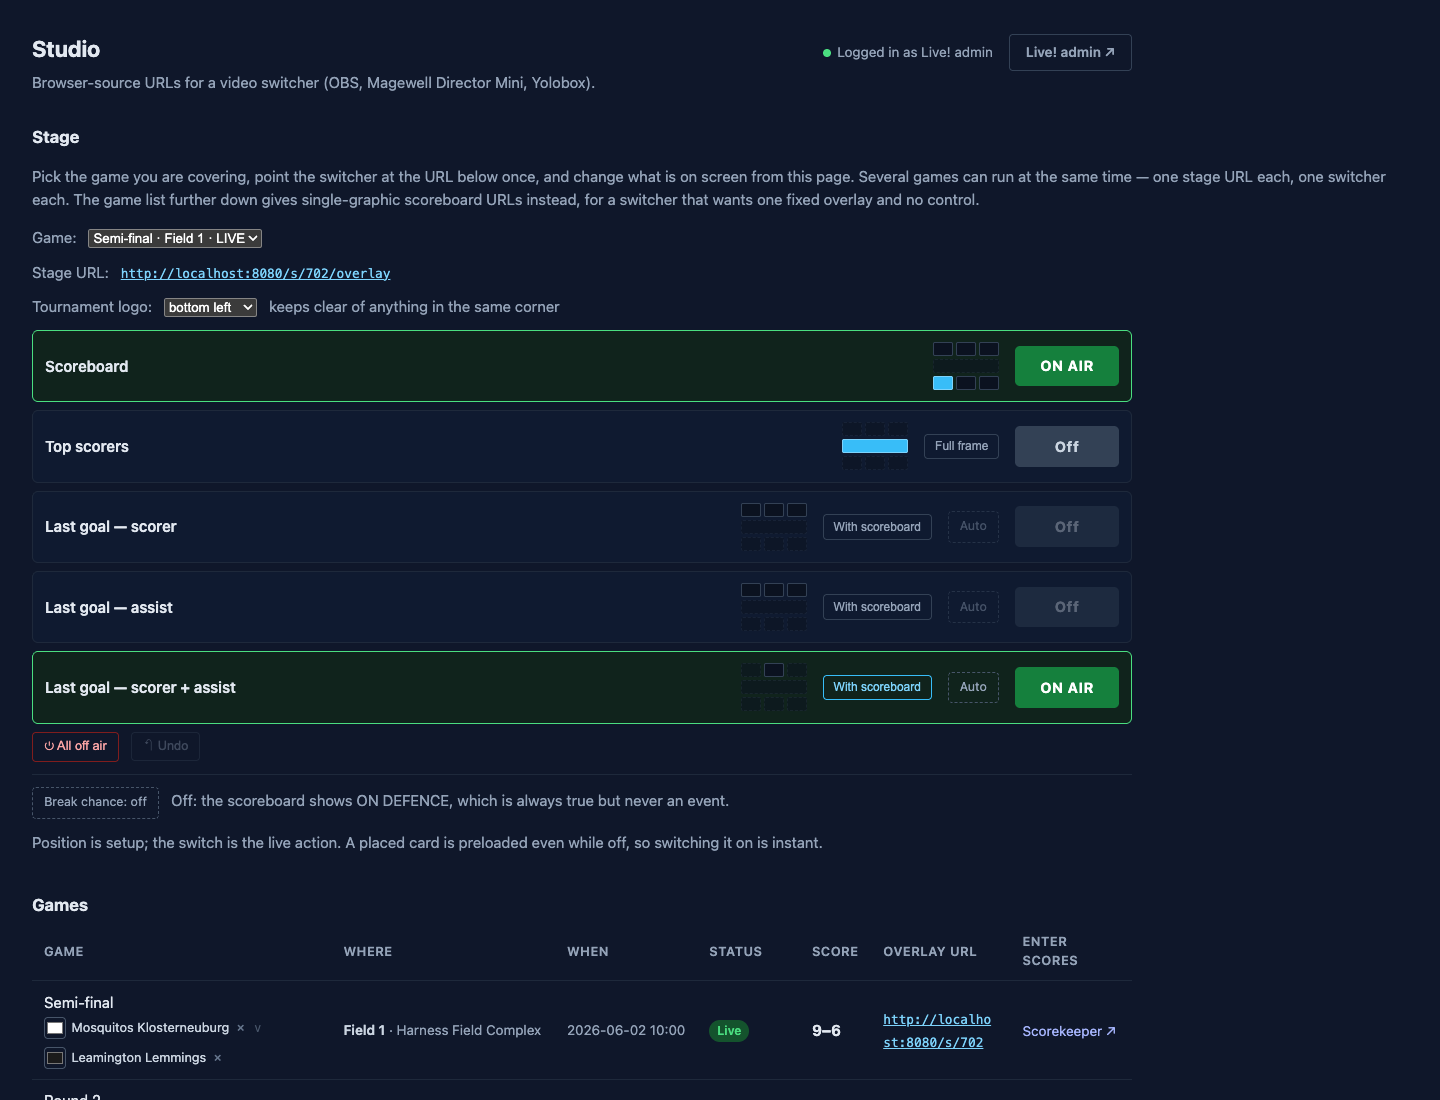
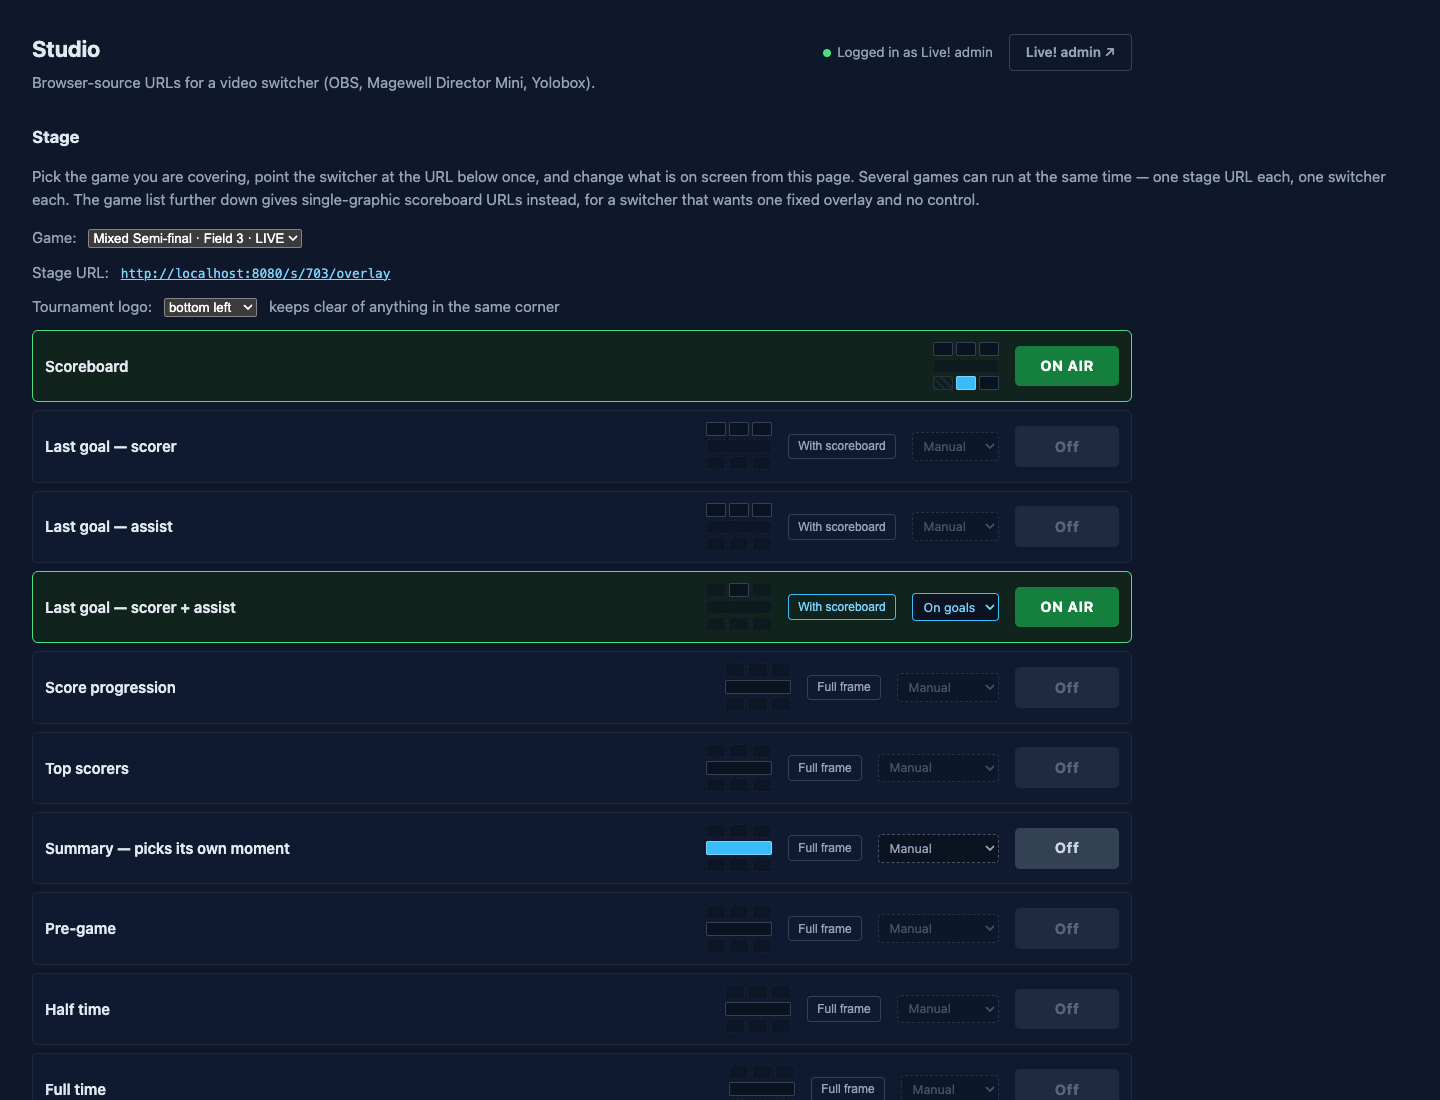
Add stage, progression and summary screenshots

diff --git a/tests/e2e/shots.spec.js b/tests/e2e/shots.spec.js
@@ -103,6 +103,79 @@ test('studio', async ({ page }) => {
 });
 
 /**
+ * The stage — the thing the whole project is for, and never pictured until now.
+ *
+ * A card on air over a scoreboard, on the chroma-key backdrop so the composite
+ * is legible on GitHub. This is what a switcher actually receives; the
+ * scoreboard shot alone showed a component rather than the product.
+ */
+test('stage, a card on air', async ({ page }) => {
+  await loginAsAdmin(page, test);
+  const before = await readShow(page);
+  try {
+    await writeShow(page, [
+      { id: 'scoreboard', slot: 'lower-left', visible: true, params: {} },
+      { id: 'lastplay', slot: 'with-scoreboard', visible: true, params: {} },
+    ], { game: GAME_ID, logo: null });
+
+    await page.setViewportSize({ width: 1920, height: 1080 });
+    await page.goto(`/s/${GAME_ID}/overlay/${BACKDROP}`);
+    await expect(page.locator('.mount.shown').first()).toBeVisible({ timeout: 15000 });
+    await page.waitForTimeout(1800);
+    await page.screenshot({ path: path.join(OUT, 'stage.png') });
+  } finally {
+    await writeShow(page, before.cards, { game: before.game, logo: before.logo });
+  }
+});
+
+/**
+ * The score progression card: the most distinctive graphic here.
+ *
+ * A staircase with the gender ratio on it, which needs a mixed division and a
+ * first-point ratio — so both are set up rather than hoped for.
+ */
+test('score progression card', async ({ page }) => {
+  const MIXED = Number(process.env.OTHER_GAME_ID || 703);
+  await loginAsAdmin(page, test);
+  const before = await readShow(page);
+  try {
+    await writePossession(page, { enabled: true, game: MIXED, ratio1: '4MMP/3FMP' });
+    await writeShow(page, [
+      { id: 'progression', slot: 'center', visible: true, params: {} },
+    ], { game: MIXED, logo: null });
+
+    await page.setViewportSize({ width: 1920, height: 1080 });
+    await page.goto(`/s/${MIXED}/overlay/${BACKDROP}`);
+    const card = page.locator('.progcard');
+    await expect(card).toBeVisible({ timeout: 15000 });
+    await page.waitForTimeout(900);
+    await card.screenshot({ path: path.join(OUT, 'progression-card.png') });
+  } finally {
+    await writeShow(page, before.cards, { game: before.game, logo: before.logo });
+  }
+});
+
+/** A summary card, which works out for itself which moment it is describing. */
+test('summary card', async ({ page }) => {
+  await loginAsAdmin(page, test);
+  const before = await readShow(page);
+  try {
+    await writeShow(page, [
+      { id: 'summary', slot: 'center', visible: true, params: {} },
+    ], { game: GAME_ID, logo: null });
+
+    await page.setViewportSize({ width: 1920, height: 1080 });
+    await page.goto(`/s/${GAME_ID}/overlay/${BACKDROP}`);
+    const card = page.locator('.summarycard');
+    await expect(card).toBeVisible({ timeout: 15000 });
+    await page.waitForTimeout(900);
+    await card.screenshot({ path: path.join(OUT, 'summary-card.png') });
+  } finally {
+    await writeShow(page, before.cards, { game: before.game, logo: before.logo });
+  }
+});
+
+/**
  * An animated GIF of the scoreboard reacting to a goal.
  *
  * Frames are captured from ?demo=1 rather than by scoring into the database:
